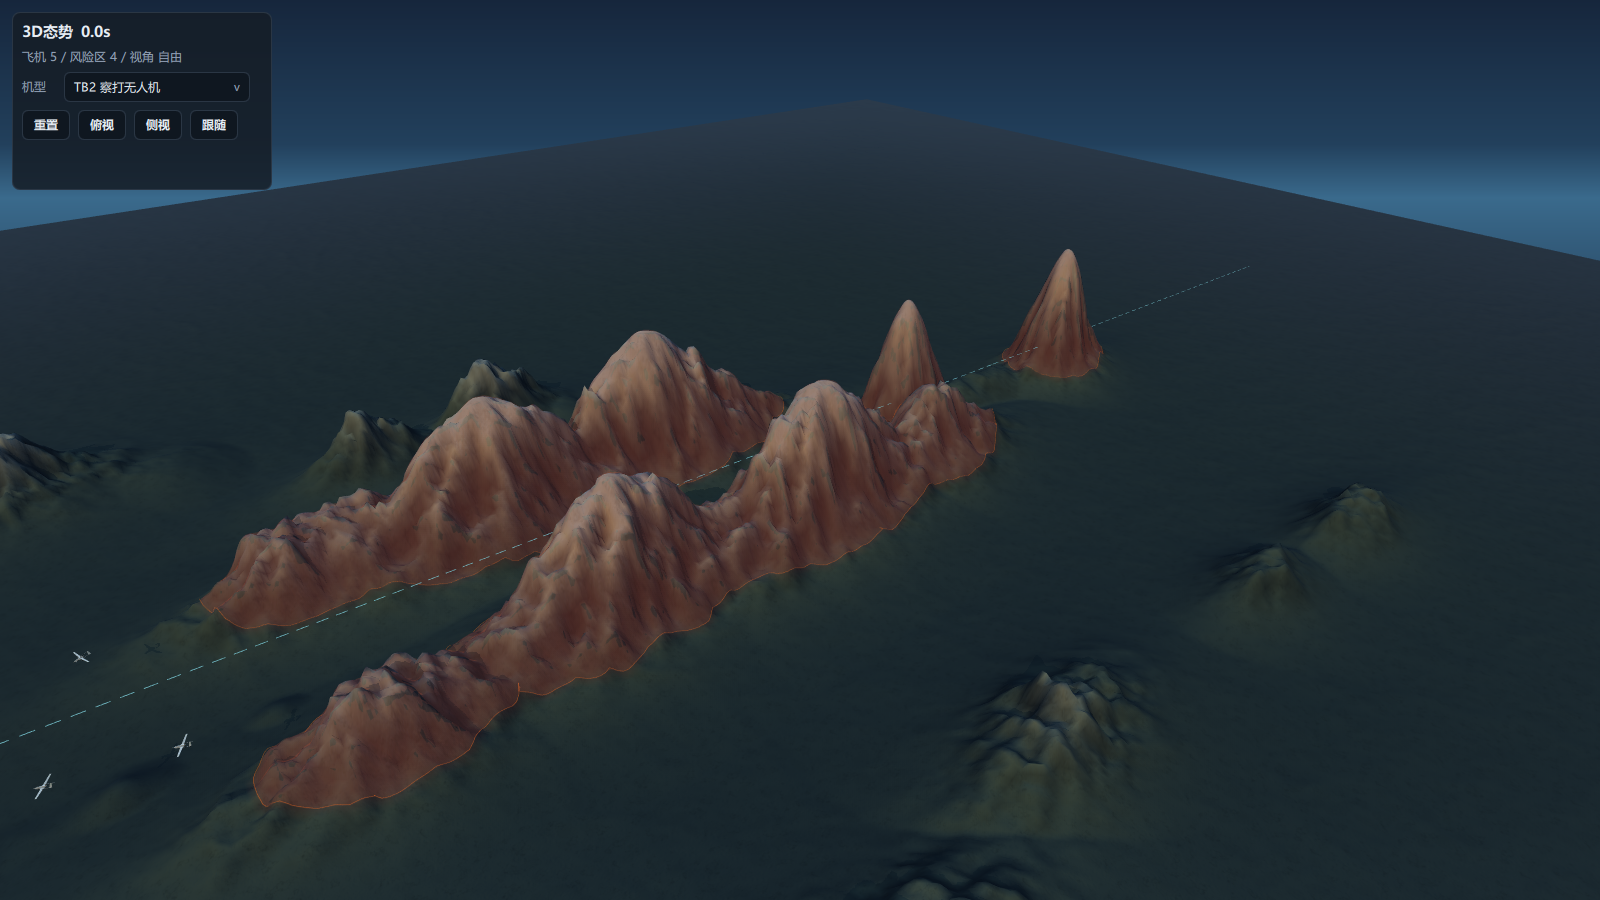
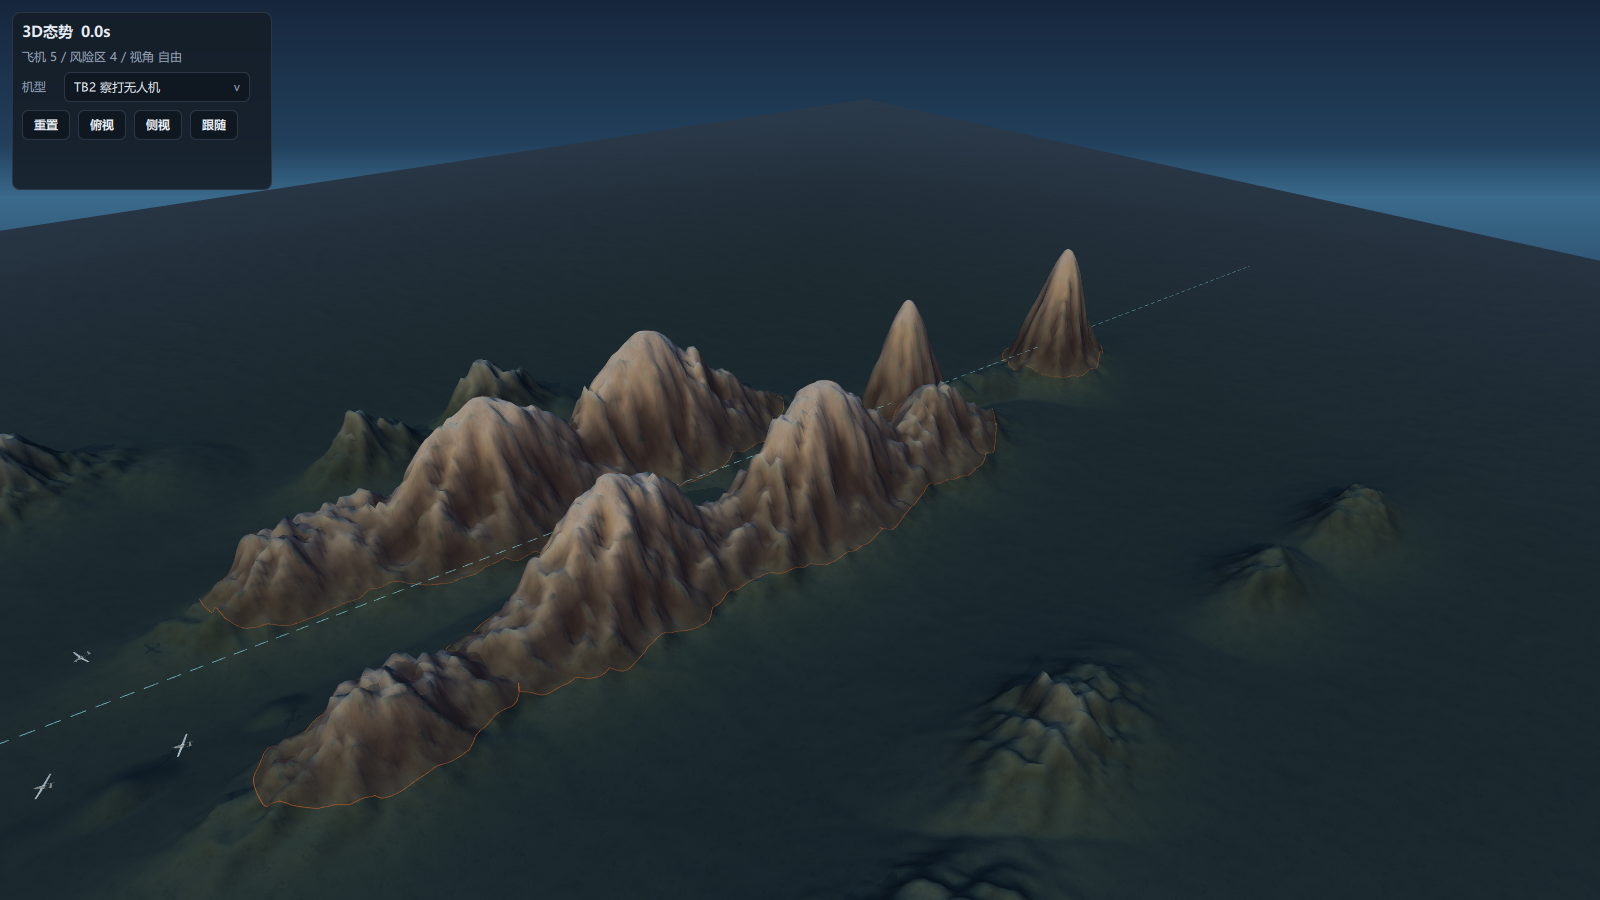
调整危险区呼吸节奏为非对称 4 秒周期并修复静态染色残留
呼吸参数改为命名属性(boundaryPulseMin/Max、fillPulseMin/Max、pulseDurationMs)集中调参，
避免魔法数字分散在多处导致改一处忘一处；用户最终调至变亮 3s、变暗 1s 的非对称节奏，振幅收窄。

修复呼吸参数调至 0 后仍残留淡红的问题：真实障碍此前会同时获得地形顶点色的静态烘焙红染色
和呼吸填充层，两者独立且互不影响，导致填充关到底也消不掉底色。现在真实障碍不再烘焙静态
染色，填充层的呼吸最低值即代表静止外观；同时修掉呼吸振幅归零时的除零 NaN。旧版无避障数据
的布局风险峰不受影响，仍走原有静态烘焙路径。

diff --git a/src/ui/gui/situation3d/qml/Situation3DView.qml b/src/ui/gui/situation3d/qml/Situation3DView.qml
@@ -45,10 +45,20 @@ Item {
     readonly property int presentationQueueCapacity: 2
     // 静态内容签名：与 payload 的 staticKey 对比，决定是否重建航线与风险区模型。
     property string staticContentKey: ""
+    // 呼吸动画调参入口：改这四个命名属性即可，不要在别处硬编码同源数字。
+    readonly property real boundaryPulseMin: 0.4
+    readonly property real boundaryPulseMax: 0.8
+    readonly property real fillPulseMin: 0.0
+    readonly property real fillPulseMax: 0.1
+    readonly property int pulseDurationMs: 3000
     // 地形顶点色保持静态；真实障碍的闭合告警边界与贴地填充共用这一个呼吸值。
-    property real alertBoundaryPulse: 0.48
-    // 填充层把同一呼吸值线性映射到 0.10~0.35，保证与边界同相位闪烁但不遮挡地形细节。
-    readonly property real riskFillPulse: 0.10 + (alertBoundaryPulse - 0.48) * (0.25 / 0.44)
+    property real alertBoundaryPulse: boundaryPulseMin
+    // 填充层把同一呼吸值线性映射到 fillPulseMin~fillPulseMax，同相位且不刺眼。
+    // boundaryPulseMax 等于 boundaryPulseMin 时振幅为零，比例项按 0 处理，避免除零得到 NaN。
+    readonly property real riskFillPulse: fillPulseMin +
+        (boundaryPulseMax === boundaryPulseMin ? 0.0 :
+            (alertBoundaryPulse - boundaryPulseMin) / (boundaryPulseMax - boundaryPulseMin)) *
+        (fillPulseMax - fillPulseMin)
     // 跟随目标 nodeId:按长机角色解析,更新快照时据此逐帧刷新相机焦点。
     property string followNodeId: ""
     // 跟随焦点与飞机共用唯一展示时钟，避免两套动画时长不同导致飞机相对镜头周期性抖动。
@@ -69,20 +79,20 @@ Item {
     ListModel { id: riskBufferModel }
     ListModel { id: riskFillModel }
 
-    // 1 秒周期呼吸：500ms 变亮 + 500ms 变暗，危险提示节奏明显但不刺眼。
+    // 4 秒周期缓慢呼吸：两段时长相等且都引用 pulseDurationMs，振幅由 boundaryPulseMin/Max 控制。
     SequentialAnimation on alertBoundaryPulse {
         loops: Animation.Infinite
         running: true
         NumberAnimation {
-            from: 0.48
-            to: 0.92
-            duration: 500
+            from: root.boundaryPulseMin
+            to: root.boundaryPulseMax
+            duration: root.pulseDurationMs
             easing.type: Easing.InOutSine
         }
         NumberAnimation {
-            from: 0.92
-            to: 0.48
-            duration: 500
+            from: root.boundaryPulseMax
+            to: root.boundaryPulseMin
+            duration: root.pulseDurationMs / 3
             easing.type: Easing.InOutSine
         }
     }

diff --git a/tests/llt/test_situation3d_scene.py b/tests/llt/test_situation3d_scene.py
@@ -132,12 +132,11 @@ class Situation3DSceneDataTests(unittest.TestCase):
         self.assertEqual(obstacle_payload["radius"], 30.0)
         self.assertEqual(obstacle_payload["z"], -70.0)
 
-        surface = payload["terrain"]["surface"]
-        risk_area = payload["terrainRiskAreas"][0]
-        self.assertEqual(risk_area["id"], "OBS1")
-        self.assertEqual(risk_area["kind"], "circle")
-        self.assertEqual(risk_area["radius"], 30.0)
-        self.assertEqual(risk_area["center"], [80.0 - surface["x"], -70.0 - surface["z"]])
+        # 真实障碍不再烘焙地形顶点色：静态基色改由填充层的呼吸最低值承担，
+        # 否则同一区域会被"烘焙红"和"呼吸红"重复叠加，且呼吸参数归零也无法真正消除红色。
+        self.assertEqual(payload["terrainRiskAreas"], [])
+        self.assertEqual(len(payload["riskZoneFills"]), 1)
+        self.assertIn("meshValue", payload["riskZoneFills"][0])
 
     def test_payload_contains_blocked_route_with_red_color(self) -> None:
         """验证封锁航线拥有独立红色 payload，空数据不产生残留模型。"""
@@ -1829,16 +1828,31 @@ class Situation3DSceneDataTests(unittest.TestCase):
         self.assertIn("data.riskZoneLines", qml)
         self.assertIn("data.riskZoneBuffers", qml)
         self.assertIn("terrainGeometry.riskAreasValue = JSON.stringify(data.terrainRiskAreas || [])", qml)
-        self.assertIn("property real alertBoundaryPulse: 0.48", qml)
+        self.assertIn("readonly property real boundaryPulseMin: 0.4", qml)
+        self.assertIn("readonly property real boundaryPulseMax: 0.8", qml)
+        self.assertIn("readonly property real fillPulseMin: 0.0", qml)
+        self.assertIn("readonly property real fillPulseMax: 0.1", qml)
+        self.assertIn("readonly property int pulseDurationMs: 3000", qml)
+        self.assertIn("property real alertBoundaryPulse: boundaryPulseMin", qml)
         self.assertIn("SequentialAnimation on alertBoundaryPulse", qml)
-        # 告警呼吸周期收紧为 1 秒：500ms 变亮 + 500ms 变暗，缓动保持 InOutSine。
-        self.assertEqual(qml.count("duration: 500"), 2)
+        # 最终版呼吸节奏是非对称的：变亮 pulseDurationMs(3s)、变暗 pulseDurationMs/3(1s)，
+        # 一轮共 4 秒，缓动仍是 InOutSine。
+        self.assertIn("duration: root.pulseDurationMs\n", qml)
+        self.assertIn("duration: root.pulseDurationMs / 3", qml)
         self.assertEqual(qml.count("duration: 2400"), 0)
+        self.assertEqual(qml.count("duration: 500"), 0)
         self.assertEqual(qml.count("easing.type: Easing.InOutSine"), 2)
         self.assertIn("pulseValue: item.pulse === true", qml)
         self.assertIn("opacity: model.pulseValue ? root.alertBoundaryPulse : 0.95", qml)
-        # 危险区填充与边界共用同一呼吸源，线性映射到 0.10~0.35 的低透明度区间。
-        self.assertIn("readonly property real riskFillPulse: 0.10 + (alertBoundaryPulse - 0.48) * (0.25 / 0.44)", qml)
+        # 危险区填充与边界共用同一呼吸源，按 fillPulseMin/Max 线性映射，振幅收窄、不再硬编码魔法数字；
+        # min===max 时比例项按 0 处理，避免呼吸振幅归零时除零得到 NaN。
+        self.assertIn(
+            "readonly property real riskFillPulse: fillPulseMin +\n"
+            "        (boundaryPulseMax === boundaryPulseMin ? 0.0 :\n"
+            "            (alertBoundaryPulse - boundaryPulseMin) / (boundaryPulseMax - boundaryPulseMin)) *\n"
+            "        (fillPulseMax - fillPulseMin)",
+            qml,
+        )
         self.assertIn("ListModel { id: riskFillModel }", qml)
         self.assertIn("data.riskZoneFills", qml)
         self.assertIn("RiskFillGeometry", qml)

diff --git a/src/ui/gui/situation3d/scene_data.py b/src/ui/gui/situation3d/scene_data.py
@@ -254,8 +254,12 @@ def build_scene_payload(
         # 填充覆盖层与边界同源同轮廓，QML 侧共用同一 pulse 属性保证同相位闪烁。
         risk_zone_fills = _obstacle_fill_payloads(obstacle_views, clearance_m, terrain.get("surface", {}))
         risk_zone_buffers: list[dict[str, object]] = []
+        # 填充层的呼吸最低值就是静态基色：不再额外烘焙地形顶点色，避免同一区域红两次、
+        # 也让呼吸参数归零时才能真正做到"没有红色"。
+        terrain_risk_areas: list[dict[str, object]] = []
     else:
-        # 兼容布局风险峰不闪烁，也不生成填充覆盖层，维持旧场景视觉不变。
+        # 兼容布局风险峰不闪烁，也不生成填充覆盖层；这类旧场景没有呼吸层承接静态基色，
+        # 因此仍烘焙地形顶点色，维持旧场景视觉不变。
         risk_zone_fills = []
         raw_risk_zone_lines = terrain.get("riskZoneLines")
         risk_zone_lines = list(raw_risk_zone_lines) if isinstance(raw_risk_zone_lines, list) else []
@@ -273,12 +277,12 @@ def build_scene_payload(
                 for zone in risk_zones
                 for dash in _risk_zone_buffer_payload(zone)
             ]
-    terrain_risk_areas = _terrain_risk_area_payloads(
-        obstacle_views,
-        clearance_m,
-        terrain.get("surface", {}),
-        risk_zones,
-    )
+        terrain_risk_areas = _terrain_risk_area_payloads(
+            obstacle_views,
+            clearance_m,
+            terrain.get("surface", {}),
+            risk_zones,
+        )
     camera_payload = _camera_payload(bounds, aircraft)
     if terrain.get("surface", {}).get("mode") == "layout":
         camera_payload = _layout_camera_payload(terrain["surface"])